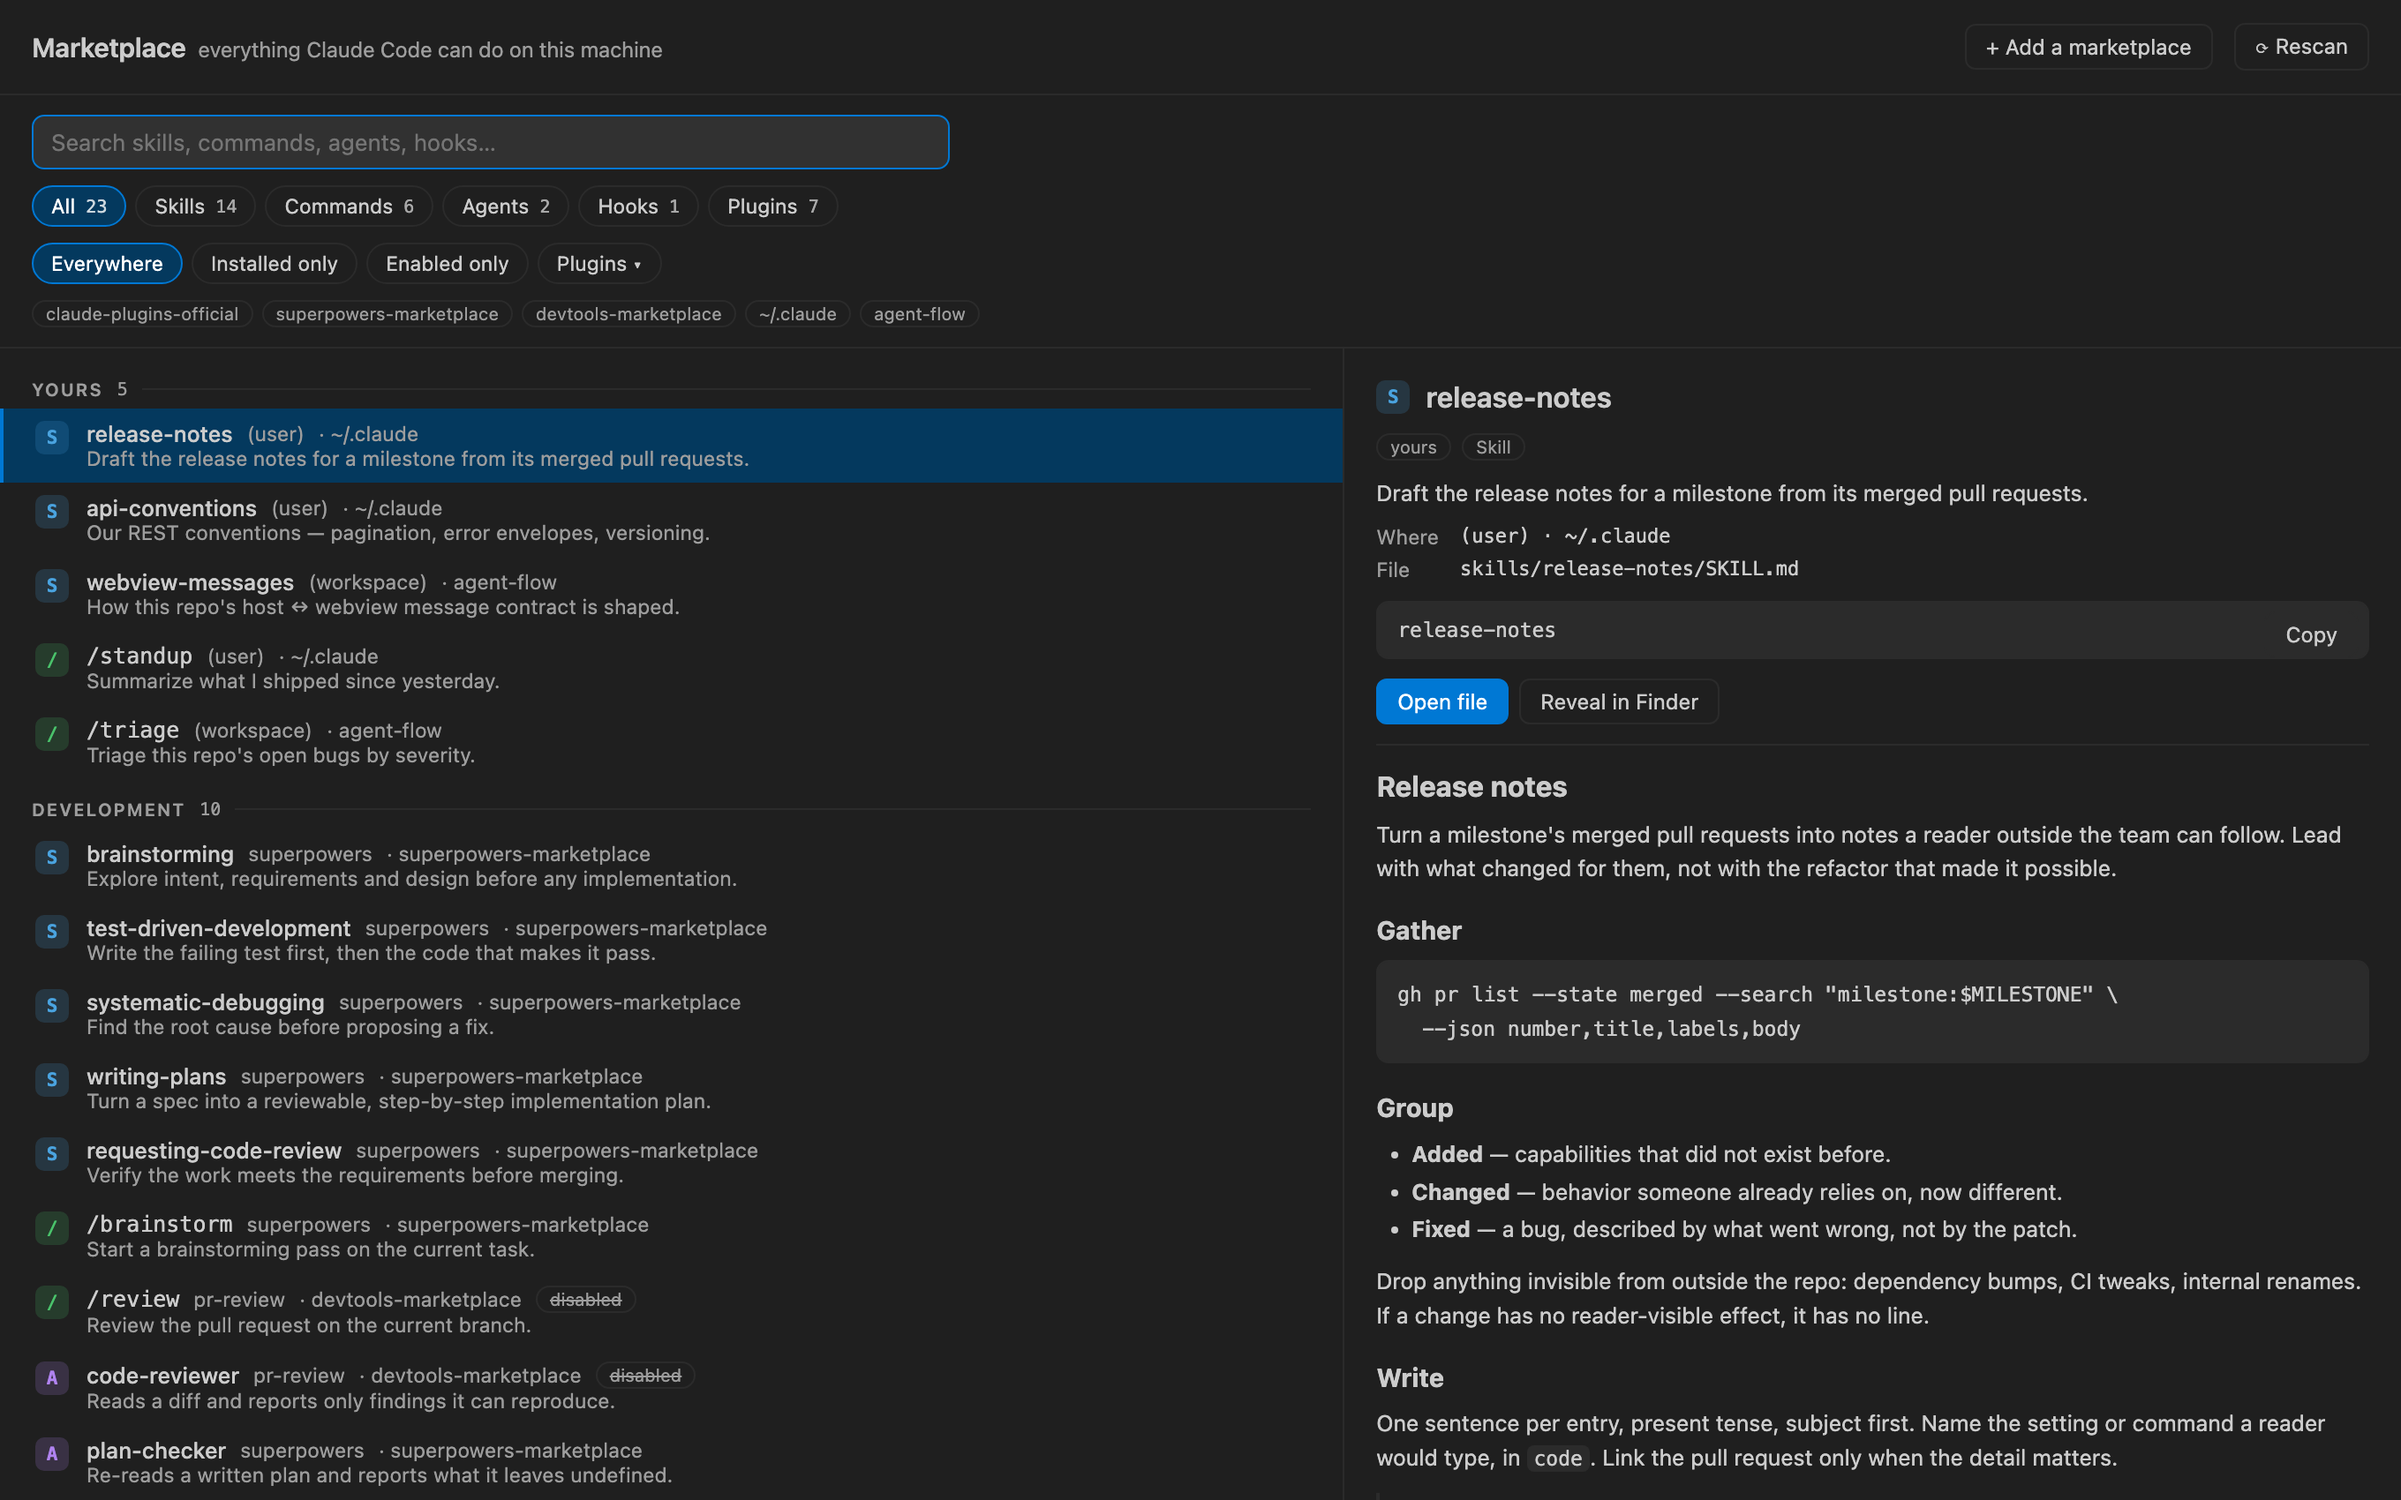
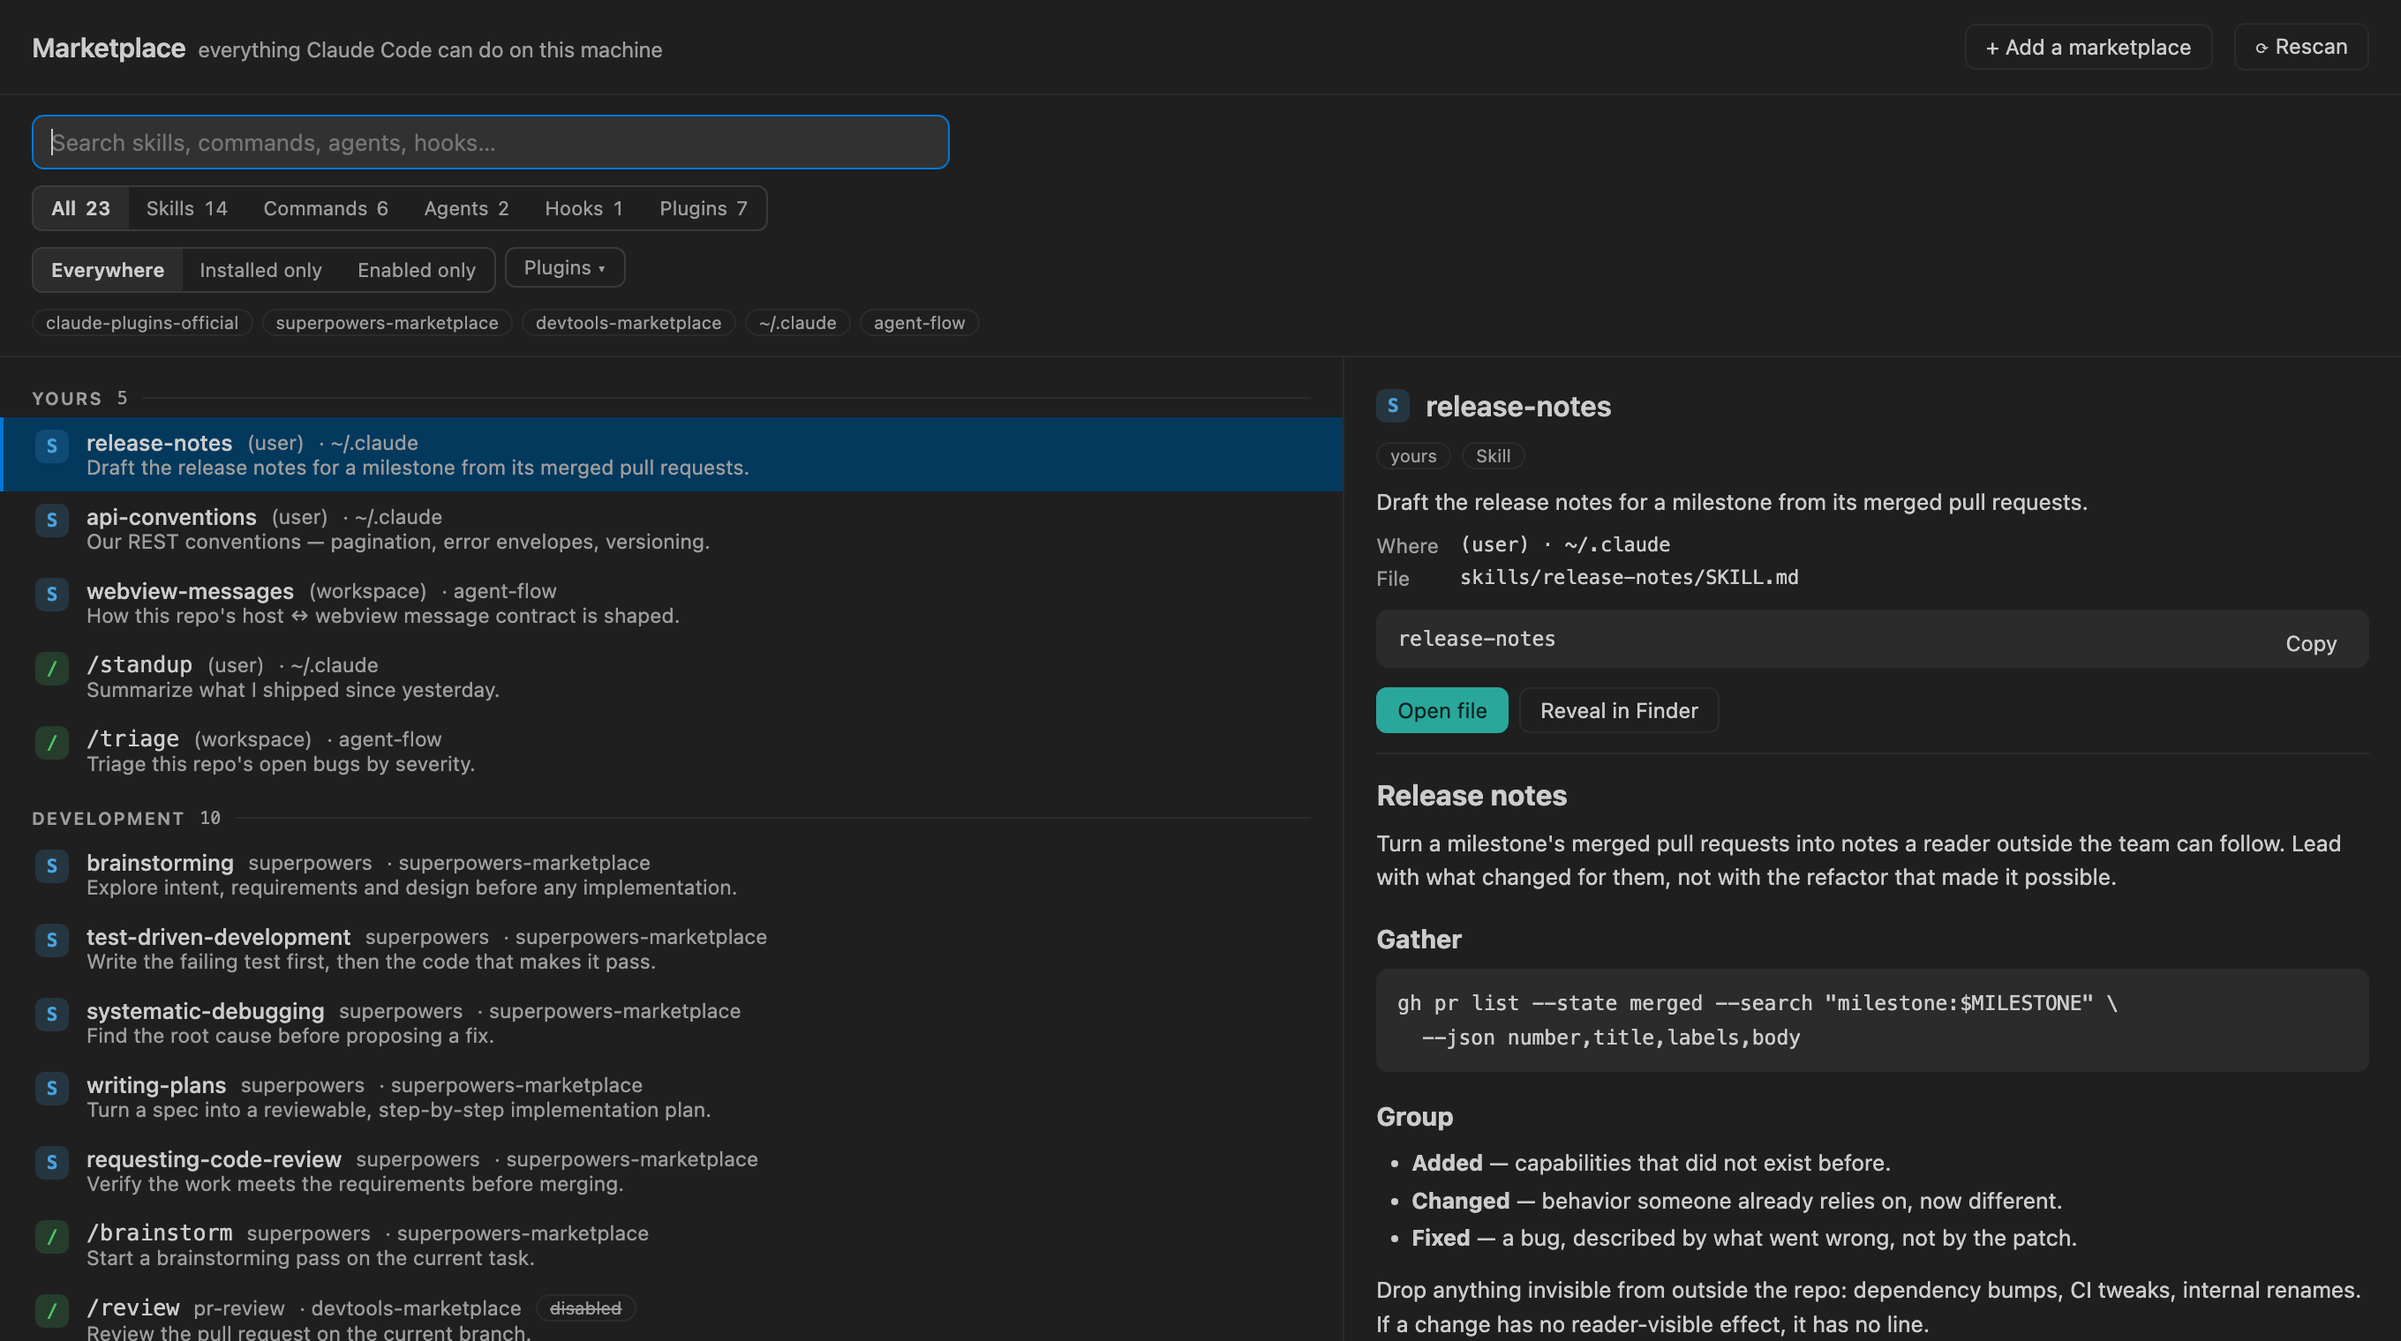
feat(brand): teal mark, new lockup, refreshed listing and screenshots
Store tile and wordmark carry the accent; the README leads with the lockup and
shows the branded UI. Listing copy names what the user controls rather than what
the extension does internally.

Changed region(s): [[0.0, 0.0309, 0.9688, 1.0], [0.8438, 0.0309, 0.9062, 0.0618], [0.9375, 0.0309, 0.9688, 0.0618]]

diff --git a/README.md b/README.md
@@ -1,11 +1,11 @@
 <div align="center">
 
-<img src="media/icon.png" alt="Agent Flow Deck logo" width="96" height="96" />
+<img src="media/icon.png" alt="" width="72" height="72" />
 
-# Agent Flow Deck
+<h1 style="letter-spacing:.13em;font-weight:550">AGENT FLOW DECK</h1>
 
-**Grab a Jira task and spin up its workspace** — a task pool in your VS Code / Cursor
-sidebar that opens the right repos and pre-seeds a Claude Code agent.
+<p><strong>A task pool in your sidebar.</strong> Take a Jira ticket and it opens the repos
+that ticket touches, with a Claude Code agent already briefed.</p>
 
 [![CI](https://github.com/oznasi1/agent-flow/actions/workflows/ci.yml/badge.svg)](https://github.com/oznasi1/agent-flow/actions/workflows/ci.yml)
 [![License: MIT](https://img.shields.io/badge/License-MIT-blue.svg)](LICENSE)
